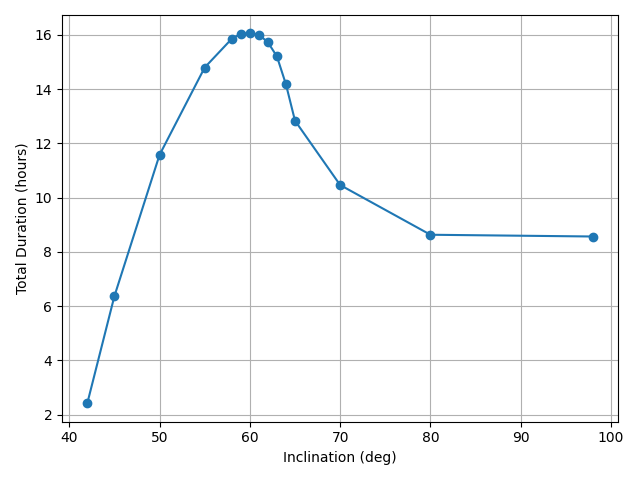
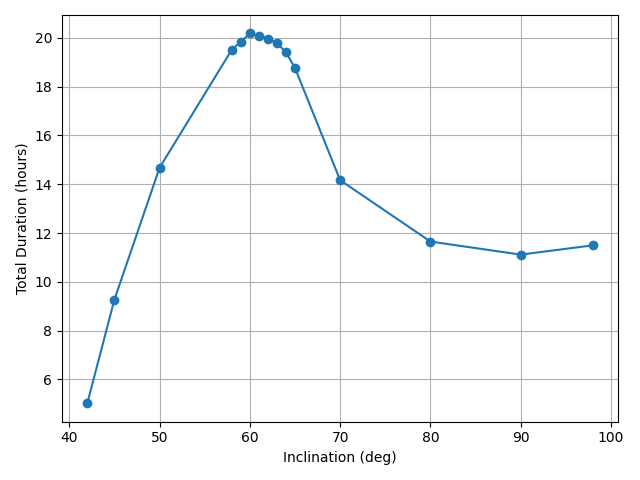
changed for 500 km

diff --git a/GroundStationContact.py b/GroundStationContact.py
@@ -49,28 +49,28 @@ def read_file(file):
 GSCDcheck = read_gsc('GSCData/delft60.txt')
 print(sum(GSCDcheck[2]))  # Print the total duration of contacts in seconds
 
-number_of_events42 = read_file('data/GSContactData42.txt')
-number_of_events45 = read_file('data/GSContactData45.txt')
-number_of_events50 = read_file('data/GSContactData50.txt')
-number_of_events55 = read_file('data/GSContactData55.txt')
-number_of_events58 = read_file('data/GSContactData58.txt')
-number_of_events59 = read_file('data/GSContactData59.txt')
-number_of_events60 = read_file('data/GSContactData60.txt')
-number_of_events61 = read_file('data/GSContactData61.txt')
-number_of_events62 = read_file('data/GSContactData62.txt')
-number_of_events63 = read_file('data/GSContactData63.txt')
-number_of_events64 = read_file('data/GSContactData64.txt')
-number_of_events65 = read_file('data/GSContactData65.txt')
-number_of_events70 = read_file('data/GSContactData50.txt')
-number_of_events80 = read_file('data/GSContactData50.txt')
-number_of_events98 = read_file('data/GSContactData98.txt')
-inclinations = [42, 45, 50, 55, 58,59, 60, 61, 62, 63, 64, 65, 70, 80, 98]  # Match the number of total_durations entries
+number_of_events42 = read_file('GSCData500km/delft42.txt')
+number_of_events45 = read_file('GSCData500km/delft45.txt')
+number_of_events50 = read_file('GSCData500km/delft50.txt')
+#number_of_events55 = read_file('GSCData500km/delft55.txt')
+number_of_events58 = read_file('GSCData500km/delft58.txt')
+number_of_events59 = read_file('GSCData500km/delft59.txt')
+number_of_events60 = read_file('GSCData500km/delft60.txt')
+number_of_events61 = read_file('GSCData500km/delft61.txt')
+number_of_events62 = read_file('GSCData500km/delft62.txt')
+number_of_events63 = read_file('GSCData500km/delft63.txt')
+number_of_events64 = read_file('GSCData500km/delft64.txt')
+number_of_events65 = read_file('GSCData500km/delft65.txt')
+number_of_events70 = read_file('GSCData500km/delft70.txt')
+number_of_events80 = read_file('GSCData500km/delft80.txt')
+number_of_events90 = read_file('GSCData500km/delft90.txt')
+number_of_events98 = read_file('GSCData500km/delft98.txt')
+inclinations = [42, 45, 50, 58,59, 60, 61, 62, 63, 64, 65, 70, 80,90, 98]  # Match the number of total_durations entries
 # Print number of events table
 number_of_events = [
     number_of_events42,
     number_of_events45,
     number_of_events50,
-    number_of_events55,
     number_of_events58,
     number_of_events59, 
     number_of_events60,
@@ -81,6 +81,7 @@ number_of_events = [
     number_of_events65,
     number_of_events70,
     number_of_events80,
+    number_of_events90,
     number_of_events98
 ]
 
@@ -92,34 +93,35 @@ for inc, num in zip(inclinations, number_of_events):
 
 ### MAIN
 # Read data, save into list of lists
-GSCD42 = read_gsc('data/GSContactData42.txt')
-GSCD45 = read_gsc('data/GSContactData45.txt')
-GSCD50 = read_gsc('data/GSContactData50.txt')
-GSCD55 = read_gsc('data/GSContactData55.txt')
-GSCD58 = read_gsc('data/GSContactData58.txt')
-GSCD59 = read_gsc('data/GSContactData59.txt')
-GSCD60 = read_gsc('data/GSContactData60.txt')
-GSCD61 = read_gsc('data/GSContactData61.txt')
-GSCD62 = read_gsc('data/GSContactData62.txt')
-GSCD63 = read_gsc('data/GSContactData63.txt')
-GSCD64 = read_gsc('data/GSContactData64.txt')  
-GSCD65 = read_gsc('data/GSContactData65.txt')
-GSCD70 = read_gsc('data/GSContactData70.txt')
-GSCD80 = read_gsc('data/GSContactData80.txt')
-GSCD98 = read_gsc('data/GSContactData98.txt')
-GSCDyear = read_gsc('data/GroundStationContactData.txt')
-GSCDMatera = read_gsc('data/GSContactData60Matera.txt')
-GSCDPotsdam = read_gsc('data/GSContactData60Potsdam.txt')
-GSCD500 = read_gsc('GSCData500km/delft.txt')
+GSCD42 = read_gsc('GSCData500km/delft42.txt')
+GSCD45 = read_gsc('GSCData500km/delft45.txt')
+GSCD50 = read_gsc('GSCData500km/delft50.txt')
+#GSCD55 = read_gsc('GSCData500km/delft55.txt')  # Not used in the original code
+GSCD55 = read_gsc('GSCData500km/delft57.txt')
+GSCD58 = read_gsc('GSCData500km/delft58.txt')
+GSCD59 = read_gsc('GSCData500km/delft59.txt')
+GSCD60 = read_gsc('GSCData500km/delft60.txt')
+GSCD61 = read_gsc('GSCData500km/delft61.txt')
+GSCD62 = read_gsc('GSCData500km/delft62.txt')
+GSCD63 = read_gsc('GSCData500km/delft63.txt')
+GSCD64 = read_gsc('GSCData500km/delft64.txt')
+GSCD65 = read_gsc('GSCData500km/delft65.txt')
+GSCD70 = read_gsc('GSCData500km/delft70.txt')
+GSCD80 = read_gsc('GSCData500km/delft80.txt')
+GSCD90 = read_gsc('GSCData500km/delft90.txt')
+GSCD98 = read_gsc('GSCData500km/delft98.txt')
+#GSCDyear = read_gsc('GSCData500km/delft_year.txt')
+GSCDMatera = read_gsc('GSCData500km/matera.txt')
+GSCDPotsdam = read_gsc('GSCData500km/potsdam.txt')
 
-print('the longest pass is around', max(GSCD500[2]), 'seconds')  # Print the maximum duration of contacts in seconds for 500km
+
+print('the longest pass is around', max(GSCD60[2]), 'seconds')  # Print the maximum duration of contacts in seconds for 500km
 
 # Plot inclinations vs number of GSCD events
 gscd_lengths = [
     len(GSCD42[0]),
     len(GSCD45[0]),
     len(GSCD50[0]),
-    len(GSCD55[0]),
     len(GSCD58[0]),
     len(GSCD59[0]),
     len(GSCD60[0]),
@@ -130,6 +132,7 @@ gscd_lengths = [
     len(GSCD65[0]),
     len(GSCD70[0]),
     len(GSCD80[0]),
+    len(GSCD90[0]),
     len(GSCD98[0])
 ]
 
@@ -147,7 +150,7 @@ plt.savefig("plots/VisitFreqIfoInc")
 total_duration42 = sum(GSCD42[2])
 total_duration45 = sum(GSCD45[2])
 total_duration50 = sum(GSCD50[2])
-total_duration55 = sum(GSCD55[2])
+#total_duration55 = sum(GSCD55[2])
 total_duration58 = sum(GSCD58[2])
 total_duration59 = sum(GSCD59[2])
 total_duration60 = sum(GSCD60[2])
@@ -158,16 +161,17 @@ total_duration64 = sum(GSCD64[2])
 total_duration65 = sum(GSCD65[2])
 total_duration70 = sum(GSCD70[2])
 total_duration80 = sum(GSCD80[2])
+total_duration90 = sum(GSCD90[2])
 total_duration98 = sum(GSCD98[2])
-total_durationyear = sum(GSCDyear[2])
-print(total_durationyear)
+#total_durationyear = sum(GSCDyear[2])
+#print(total_durationyear)
 
 # Convert total durations from seconds to hours
 total_durations = [
     total_duration42 / 3600,
     total_duration45 / 3600,
     total_duration50 / 3600,
-    total_duration55 / 3600,
+#    total_duration55 / 3600,
     total_duration58 / 3600,
     total_duration59 / 3600,
     total_duration60 / 3600,
@@ -178,6 +182,7 @@ total_durations = [
     total_duration65 / 3600,
     total_duration70 / 3600,
     total_duration80 / 3600,
+    total_duration90 / 3600,
     total_duration98 / 3600
 ]
 
@@ -197,7 +202,7 @@ total_durations = [
     total_duration42,
     total_duration45,
     total_duration50,
-    total_duration55,
+#    total_duration55,
     total_duration58,
     total_duration59,
     total_duration60,
@@ -208,6 +213,7 @@ total_durations = [
     total_duration65,
     total_duration70,
     total_duration80,
+    total_duration90,
     total_duration98
 ]
 
